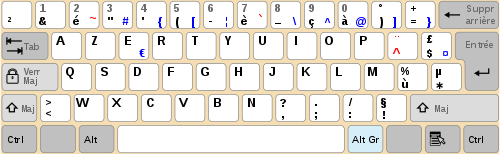
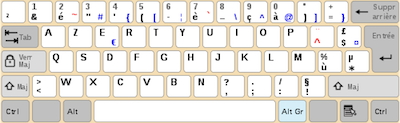
resised some images. uncommented some already tested flows

diff --git a/index.html b/index.html
@@ -9,7 +9,7 @@
 
     <!-- Generic check libraries -->
     <script src="https://web-experiments.lab.hum.uu.nl/jspsych/6.1.0/plugins/jspsych-audio-button-response.js"></script>
-    <script src="/jspsych/6.1.0/plugins/jspsych-instructions.js"></script>
+    <script src="https://web-experiments.lab.hum.uu.nl/jspsych/6.1.0/plugins/jspsych-instructions.js"></script>
 
     <!-- Generic jspsych style sheets -->
     <link href="https://web-experiments.lab.hum.uu.nl/jspsych/6.1.0/css/jspsych.css" rel="stylesheet" type="text/css"/>
@@ -91,6 +91,7 @@
         data: { useful_data_flag: false }
     };
 
+    // unused now
     var test_audio_single = {
         type: 'audio-button-response',
         stimulus: './sounds/boat.mp3',
@@ -139,9 +140,21 @@
             'AZERTY:<BR><BR><img src="./images/AZERTY.png"></img>',
             'DVORAK:<BR><BR><img src="./images/DVORAK.png"></img>',
             'QWERTZ:<BR><BR><img src="./images/QWERTZ.png"></img>',
-            'Other: If you have your own, custom (mechanical) keyboard, this will be dealt with in the next step...'
+            'OTHER:<BR><BR><img src="./images/CUSTOM.png"></img><BR><BR>If you have your own, custom (mechanical) keyboard...'
             ],
         show_clickable_nav: true
+    };
+
+    var select_keyboard_two = {
+        type: 'html-button-response',
+        choices: ['QWERTY','AZERTY','DVORAK','QWERTZ','CUSTOM'],
+        prompt: "Select the keyboard that looks most like the on you use. You may need to scroll a bit...",
+        button_html: '<button class="img-btn"><img src=./images/%choice%.png></button>',
+        on_finish: function(data) {
+            var button_id = data.button_pressed;
+            var keyboard_chosen = jsPsych.timelineVariable('choices')[used_button];
+            data.keyboard = keyboard_chosen;
+        }
     };
 
     var instruction_screen_practice = {
@@ -274,16 +287,16 @@
     
     // best practice to have user I/O first
     timeline.push(start_screen);
-    timeline.push(test_audio_start);
+    //timeline.push(test_audio_start);
     
     //timeline.push(test_audio_single);
-    timeline.push(test_audio_looped);
+    //timeline.push(test_audio_looped);
     // todo: keyboard checks:
 
     // some reading up: https://hacks.mozilla.org/2017/03/internationalize-your-keyboard-controls/
     
     timeline.push(select_keyboard_one);
-
+    timeline.push(select_keyboard_two);
 
 
     timeline.push(instruction_screen_practice);
